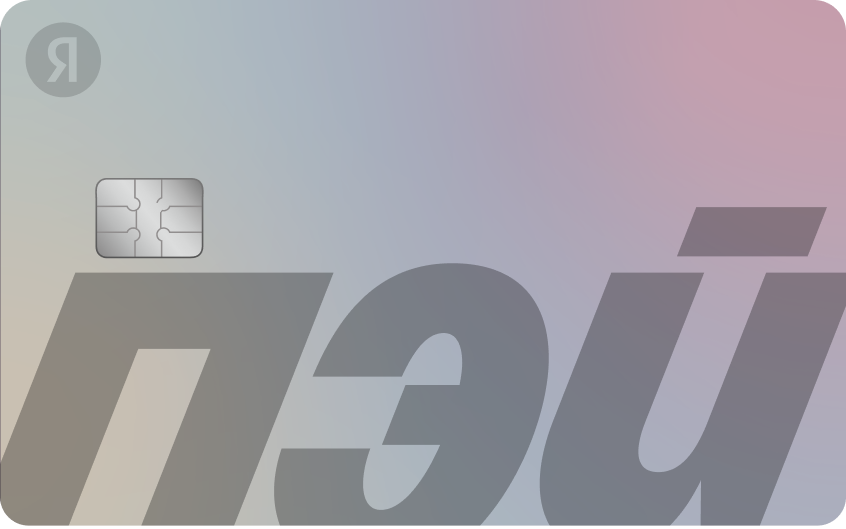
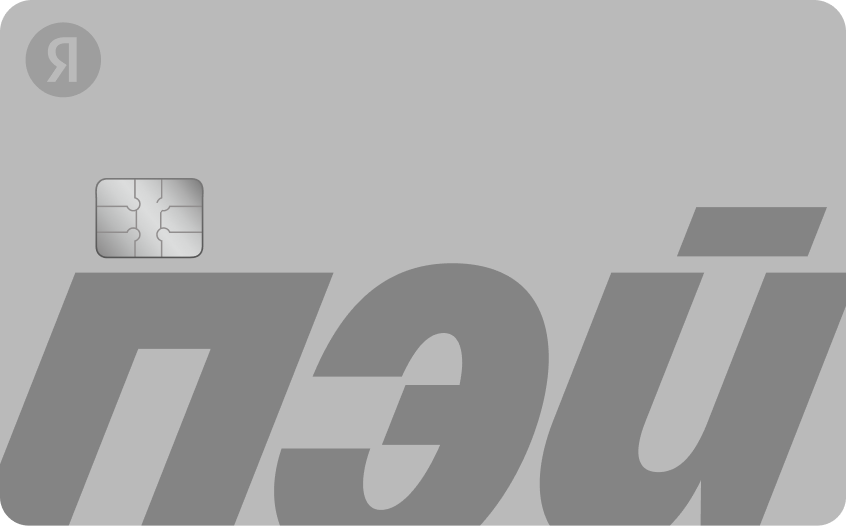
Add files via upload

Changed region(s): [[0.6147, 0.0, 1.0, 0.3629]]

diff --git a/index.html b/index.html
@@ -53,7 +53,7 @@
         }
 
         .bg-skin-2 {
-            background: radial-gradient(ellipse at 5% 0%, rgb(195, 185, 215) 0%, rgb(235, 230, 240) 100%);
+            background: radial-gradient(ellipse at 5% 0%, rgb(190, 195, 200) 0%, rgb(225, 228, 232) 100%);
         }
 
         .container {
@@ -172,7 +172,7 @@
         }
 
         .skin-2-gradient {
-            background: linear-gradient(135deg, rgb(200, 185, 215) 0%, rgb(225, 200, 220) 100%);
+            background: linear-gradient(135deg, rgb(195, 200, 210) 0%, rgb(215, 220, 228) 100%);
         }
 
         /* Bottom island */
@@ -672,6 +672,10 @@
                 return c.z * mix(K.xxx, clamp(p - K.xxx, 0.0, 1.0), c.y);
             }
             
+            float grain(vec2 p) {
+                return fract(sin(dot(p, vec2(127.1, 311.7))) * 43758.5453);
+            }
+            
             void main() {
                 vec4 tex = texture2D(uTexture, vUV);
                 vec4 maskColor = texture2D(uMask, vUV);
@@ -699,13 +703,15 @@
                 float fresnel = 1.0 - max(dot(N, V), 0.0);
                 fresnel = pow(fresnel, 2.0);
                 
-                vec3 baseColor = tex.rgb * (uAmbient + diff * 0.5) + vec3(spec);
+                float matteSpec = spec * maskVal;
+                vec3 baseColor = tex.rgb * (uAmbient + diff * 0.5) + vec3(matteSpec);
                 
                 float glossStrength = 0.5 + fresnel * 0.25;
-                vec3 glossHolo = mix(baseColor, rainbow, glossStrength);
+                vec3 glossHolo = mix(baseColor + vec3(spec * (1.0 - maskVal)), rainbow, glossStrength);
                 
-                vec3 matteRainbow = hsv2rgb(vec3(hue, sat * 0.4, val * 0.85));
-                vec3 matteHolo = mix(baseColor, matteRainbow, 0.15);
+                float g = (grain(vUV * 800.0) - 0.5) * 0.03;
+                vec3 matteRainbow = hsv2rgb(vec3(hue, sat * 0.1, val * 0.95));
+                vec3 matteHolo = mix(baseColor, matteRainbow, 0.05) + vec3(g);
                 
                 vec3 holoColor = mix(matteHolo, glossHolo, maskVal);
                 